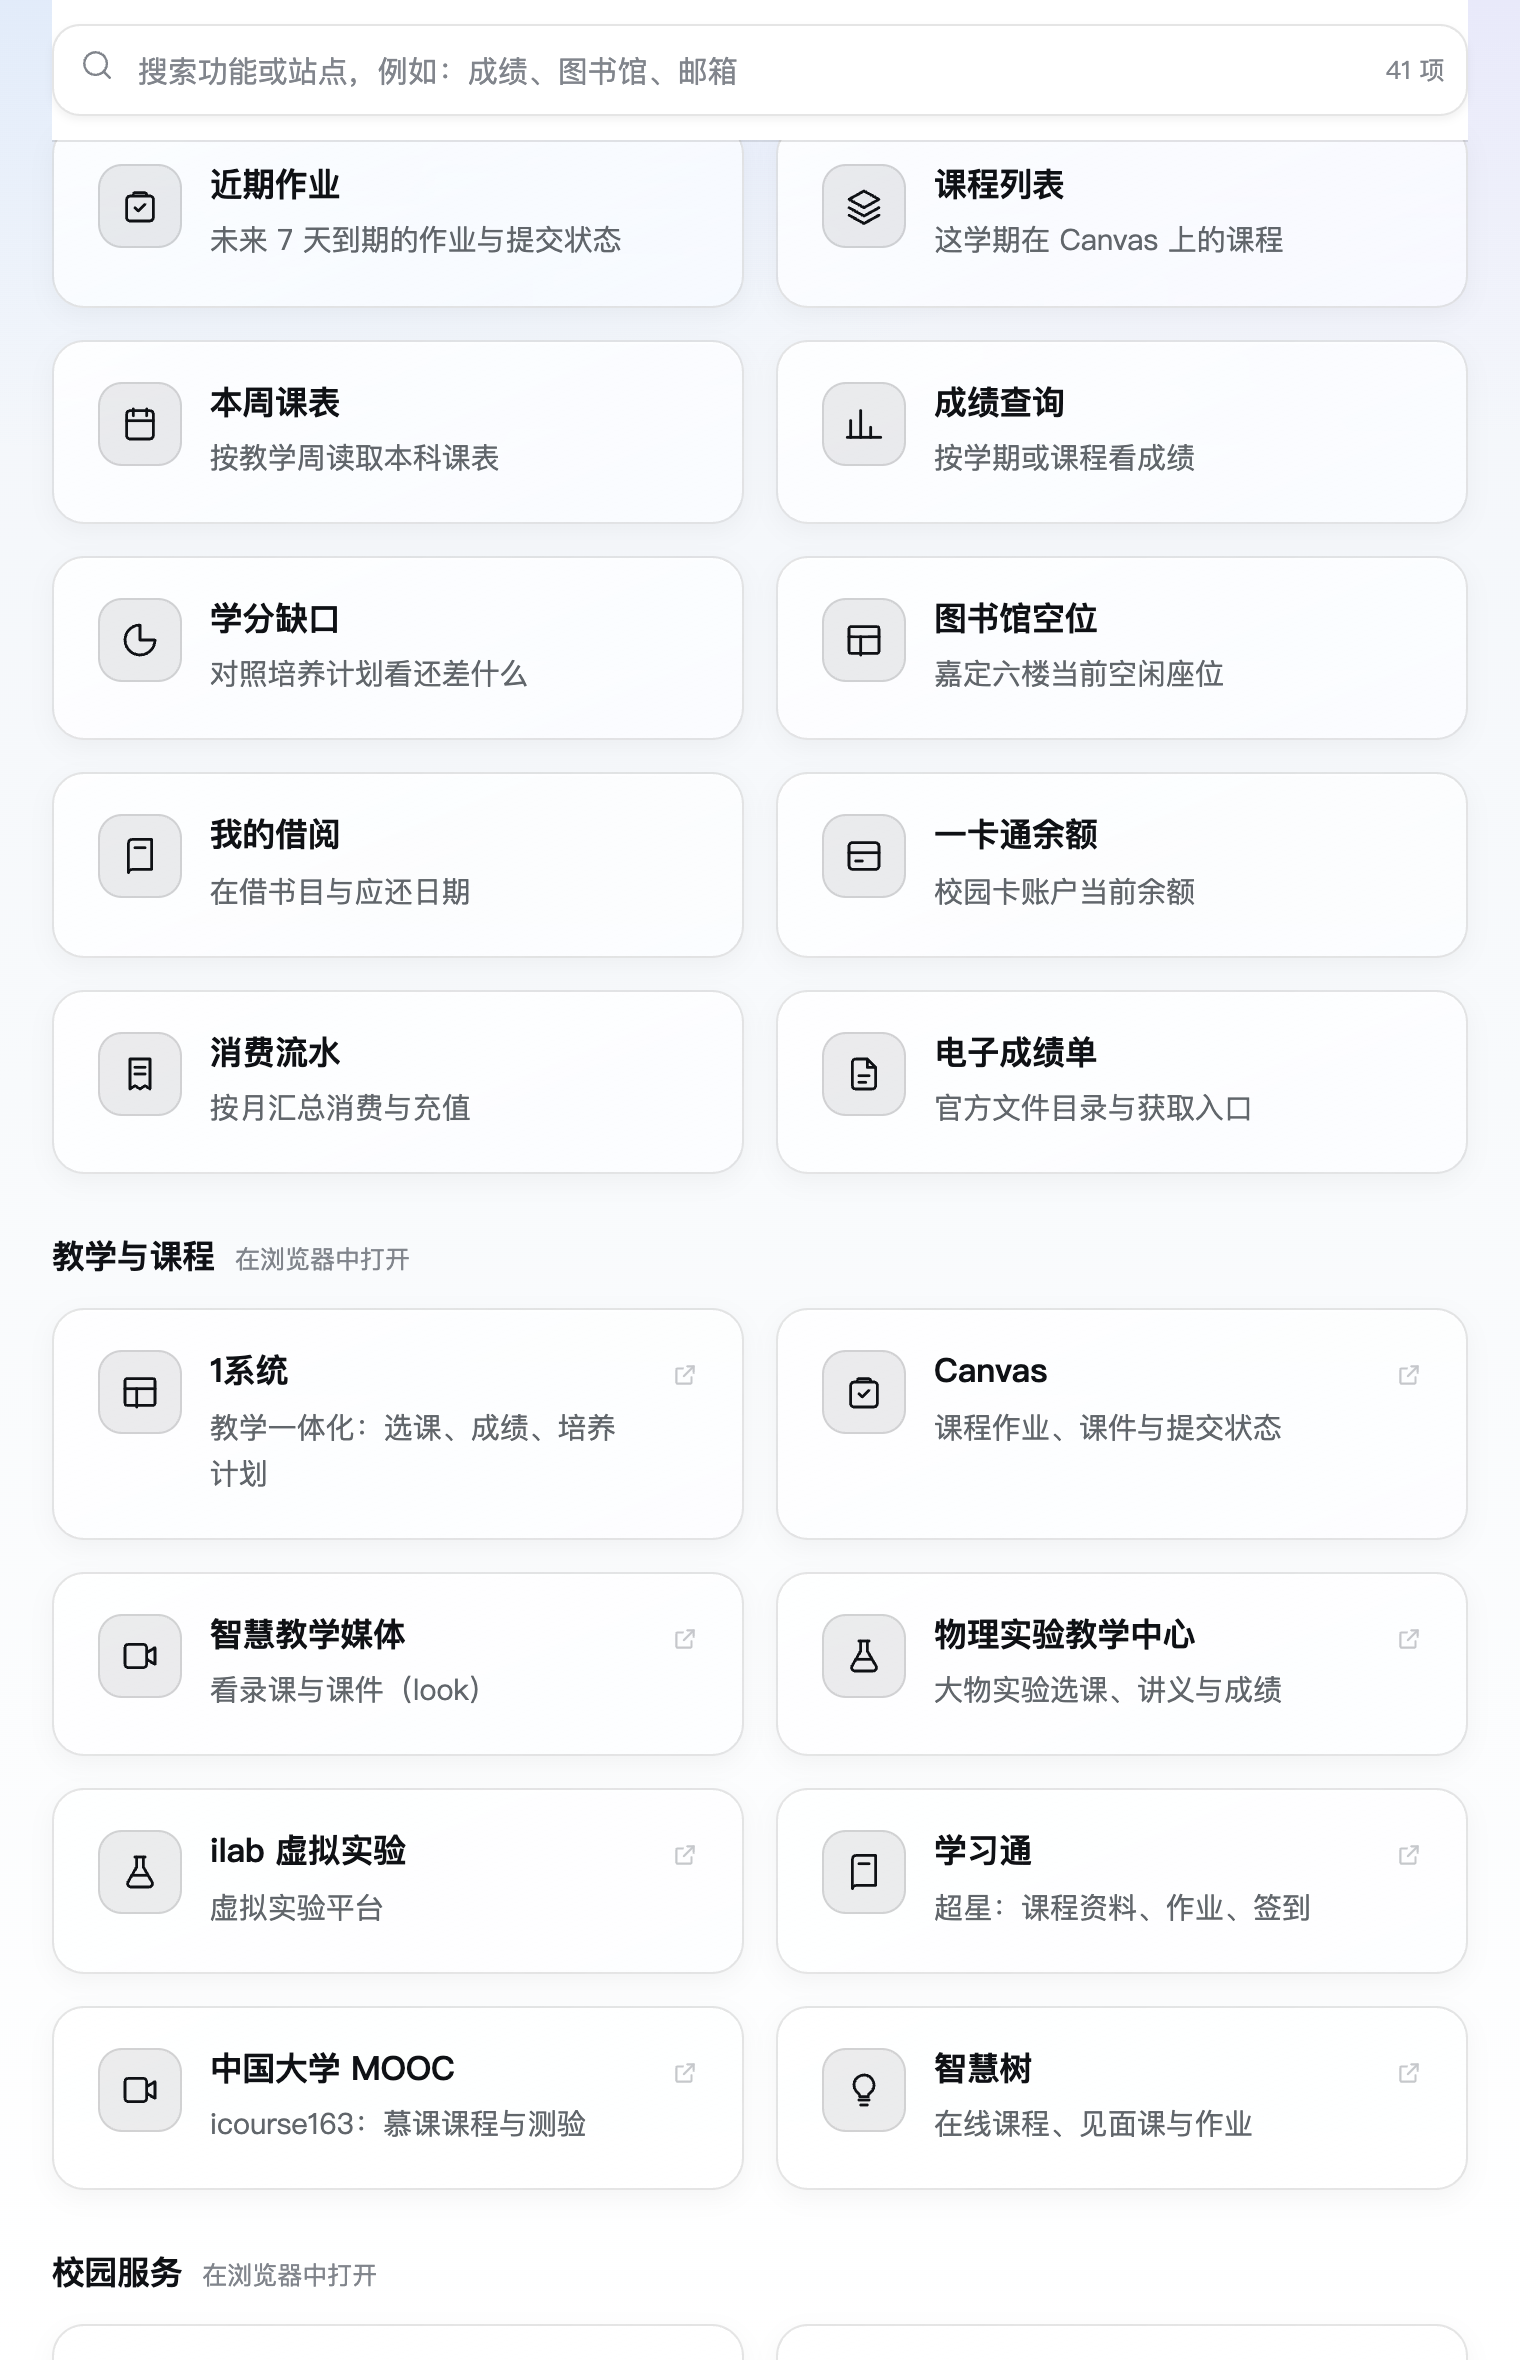
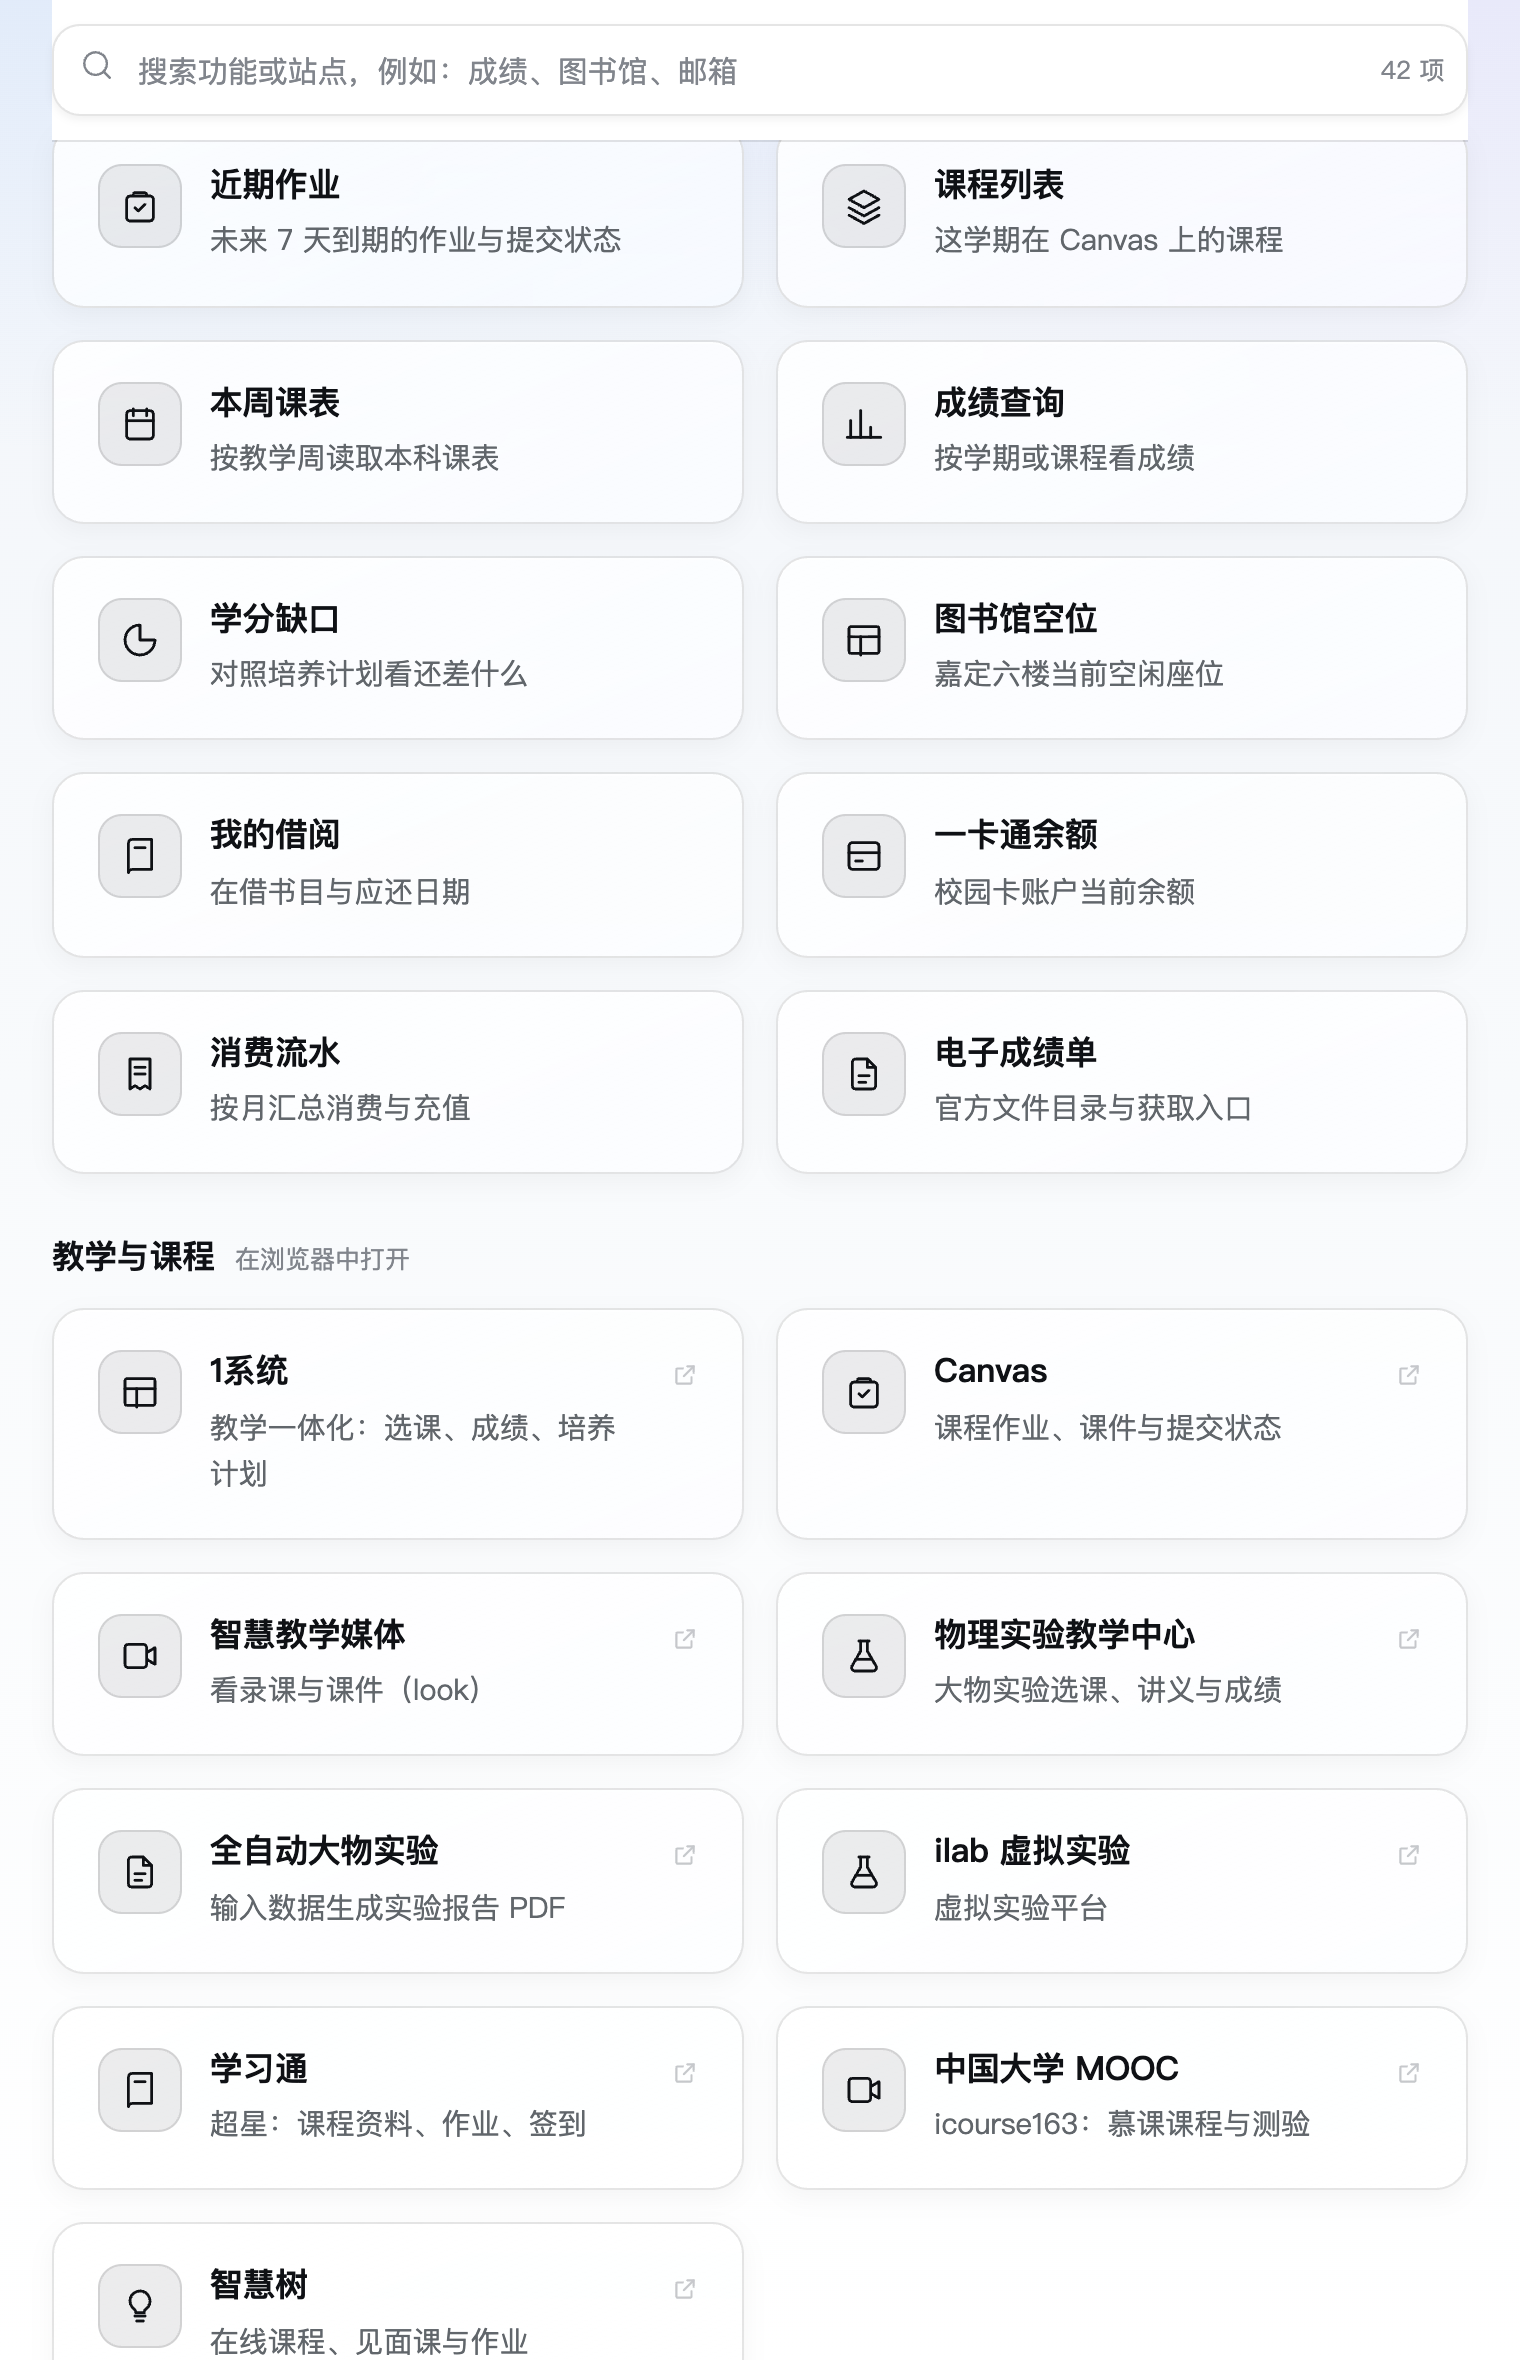
feat: 加入全自动大物实验入口

diff --git a/lib/client.js b/lib/client.js
@@ -65,6 +65,7 @@ window.__ModuleLoader__.load({
 					{ icon: "clipboard", title: "Canvas", hint: "课程作业、课件与提交状态", url: "https://canvas.tongji.edu.cn", keywords: "canvas lms 作业 课程 提交" },
 					{ icon: "video", title: "智慧教学媒体", hint: "看录课与课件（look）", url: "https://look.tongji.edu.cn" },
 					{ icon: "flask", title: "物理实验教学中心", hint: "大物实验选课、讲义与成绩", url: "https://mphylab.tongji.edu.cn/page/home/index" },
+					{ icon: "file", title: "全自动大物实验", hint: "输入数据生成实验报告 PDF", url: "https://lab.tongji.sh", keywords: "lab 大物 大雾 物理实验 报告 typst 不确定度" },
 					{ icon: "flask", title: "ilab 虚拟实验", hint: "虚拟实验平台", url: "https://www.ilab-x.com/" },
 					{ icon: "book", title: "学习通", hint: "超星：课程资料、作业、签到", url: "https://i.chaoxing.com/base?ws=1" },
 					{ icon: "video", title: "中国大学 MOOC", hint: "icourse163：慕课课程与测验", url: "https://www.icourse163.org/home.htm" },
